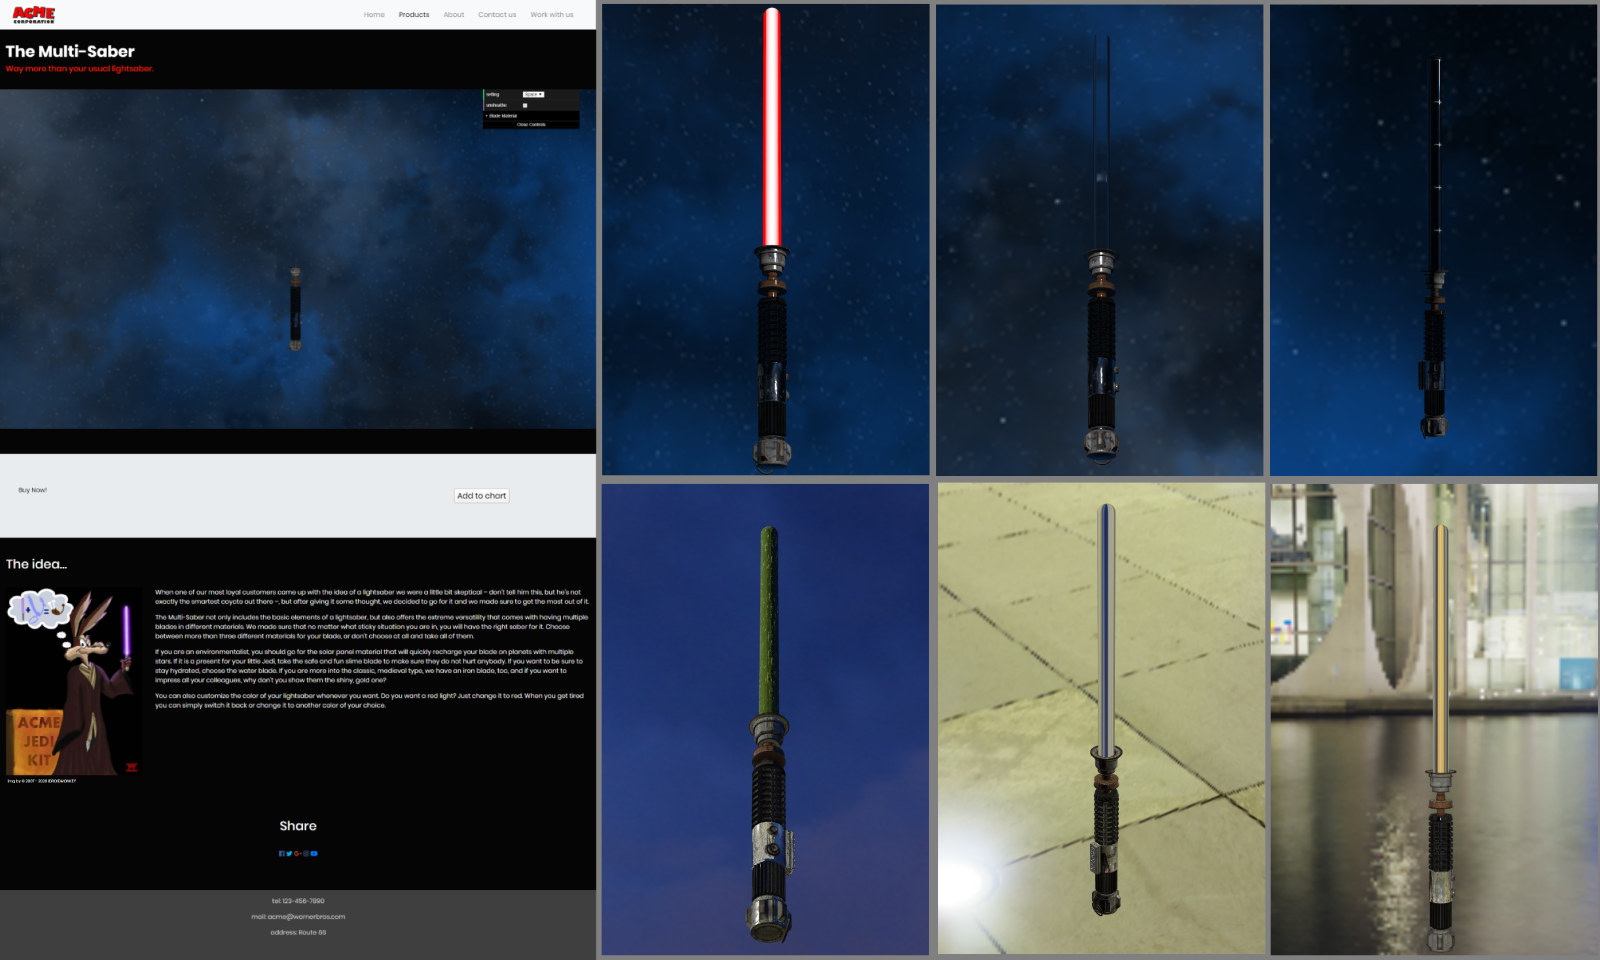
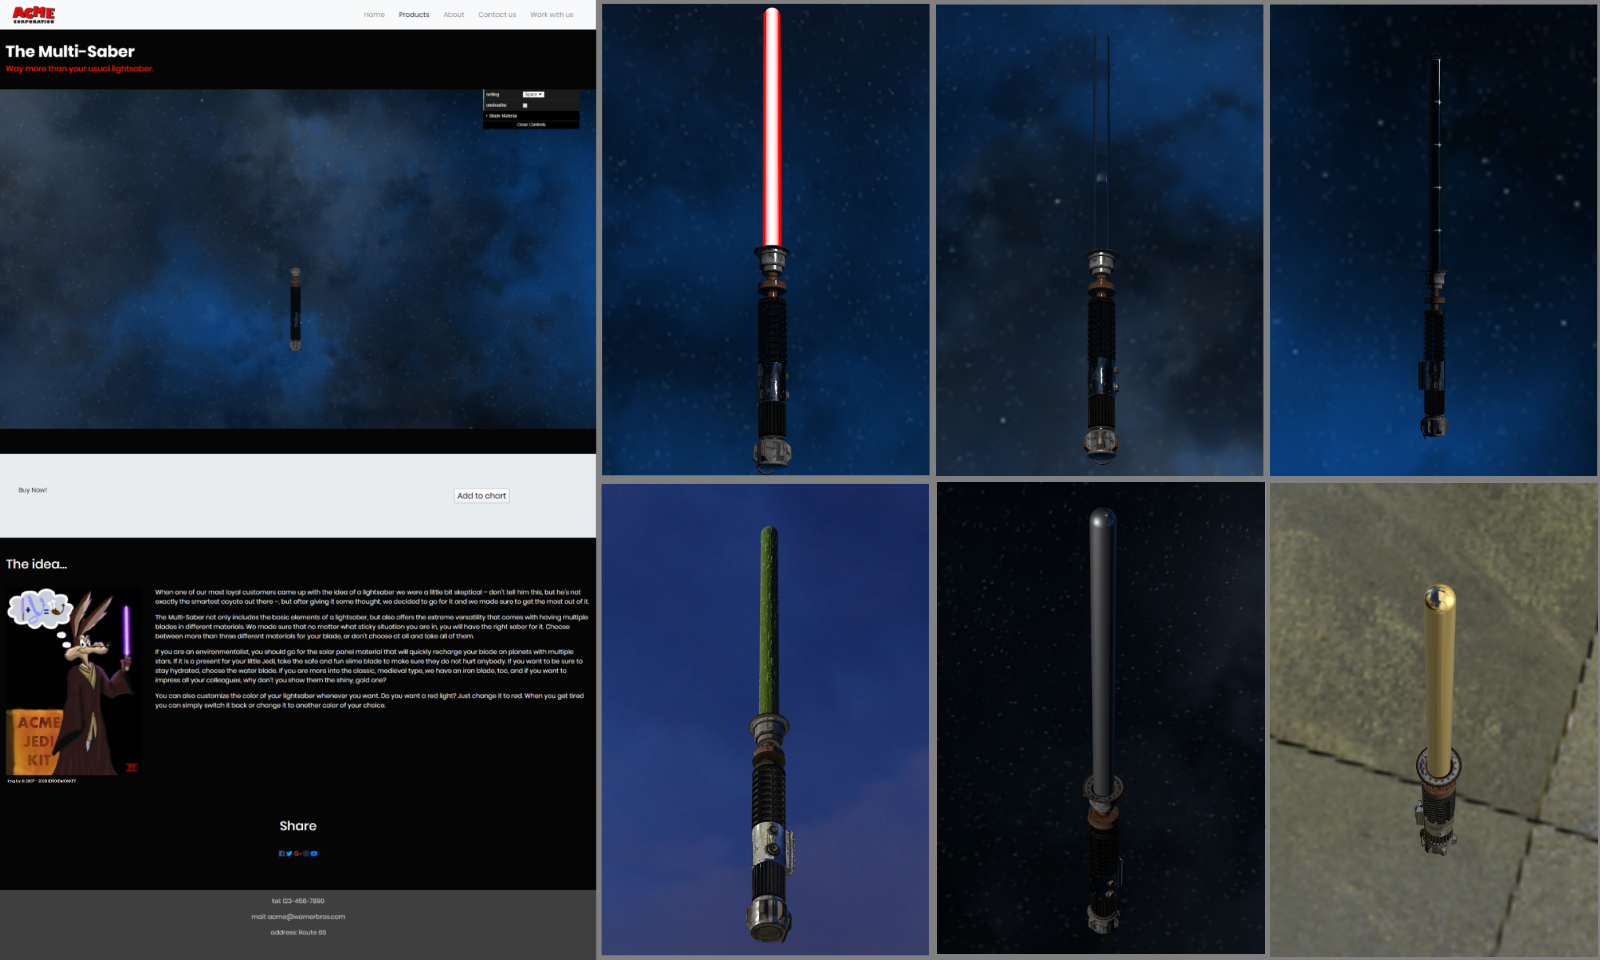
aggiunta luce in oro e ferro

Changed region(s): [[0.5625, 0.5, 1.0, 1.0]]

diff --git a/productConfiguration.html b/productConfiguration.html
@@ -243,6 +243,7 @@
 						varying vec3 wPosition;
 						varying vec3 vTangent;
 						varying vec3 vBitangent;
+						vec3 pointLightPosition = vec3(0,5,15);
 				
 						void main() {
 							vec4 vPos = modelViewMatrix * vec4( position, 1.0 );
@@ -276,36 +277,70 @@
 							vec3 inverseTransformDirection( in vec3 dir, in mat4 matrix ) {
 								return normalize( ( vec4( dir, 0.0 ) * matrix ).xyz );
 							}
+
+							float DGGX(float nDoth, float alpha) {
+								float alpha2 = alpha*alpha;
+								float d = nDoth*nDoth*(alpha2-1.0)+1.0;
+								return (  alpha2 / (PI*d*d));
+							}
+				
+							float G1(float dotProduct, float k) {
+								return (dotProduct / (dotProduct*(1.0-k) + k) );
+							}
+				
+							float GSmith(float nDotv, float nDotl, float roughness) {
+									float k = roughness*roughness;
+									return G1(nDotl,k)*G1(nDotv,k);
+							}
+
 							void main() {
-								vec3 normal = normalize( vNormal );
-								vec3 tangent = normalize( vTangent );
-								vec3 bitangent = normalize( vBitangent );
-								mat3 vTBN = mat3( tangent, bitangent, normal );
-								vec3 n = normalize( vTBN * normal );
+								vec3 n = normalize( vNormal );
+								if(material==3.0 || material==1.0){
+									vec3 tangent = normalize( vTangent );
+									vec3 bitangent = normalize( vBitangent );
+									mat3 vTBN = mat3( tangent, bitangent, n );
+									n = normalize( vTBN * n );
+								}
 								vec3 v = normalize( -vPosition);
-								vec3 worldN = inverseTransformDirection( n, viewMatrix );
-								vec3 worldV = cameraPosition - wPosition ;
 								float nDotv = max(dot( n, v ),0.000001);
 								vec3 fresnel = FSchlick(nDotv, cspec);
 								vec3 outRadiance;
-								
-								if(material == 1.0){ //acqua
-									vec3 refractV = refract(-worldV,worldN,0.750);
-									vec3 reflectV = reflect(-worldV,worldN);
-									vec3 refractEnvLight = textureCube( envMap, vec3(-refractV.x, refractV.yz)).rgb;
-									vec3 reflectEnvLight = textureCube( envMap, vec3(-reflectV.x, reflectV.yz)).rgb;
-									refractEnvLight = pow( refractEnvLight, vec3(2.2));
-									reflectEnvLight = pow( reflectEnvLight, vec3(2.2));
-									outRadiance = refractEnvLight*(vec3(1.0)-fresnel) + fresnel*reflectEnvLight;
-								}
-								if(material == 2.0){ //ferro o oro
-									vec3 r = reflect(-worldV,worldN);
-									vec3 envLight = textureCube( envMap, vec3(-r.x, r.yz)).rgb;
-									envLight = pow( envLight, vec3(2.2));
-									outRadiance = fresnel*envLight;
+								if(material == 1.0 || material == 2.0){
+									//componente ambientale
+									vec3 worldN = inverseTransformDirection( n, viewMatrix );
+									vec3 worldV = cameraPosition - wPosition ;
+									if(material == 1.0){ //acqua
+										vec3 refractV = refract(-worldV,worldN,0.750);
+										vec3 reflectV = reflect(-worldV,worldN);
+										vec3 refractEnvLight = textureCube( envMap, vec3(-refractV.x, refractV.yz)).rgb;
+										vec3 reflectEnvLight = textureCube( envMap, vec3(-reflectV.x, reflectV.yz)).rgb;
+										refractEnvLight = pow( refractEnvLight, vec3(2.2));
+										reflectEnvLight = pow( reflectEnvLight, vec3(2.2));
+										outRadiance = refractEnvLight*(vec3(1.0)-fresnel) + fresnel*reflectEnvLight;
+									}
+									if(material == 2.0){ //ferro o oro
+										vec3 r = reflect(-worldV,worldN);
+										vec3 envLight = textureCube( envMap, vec3(-r.x, r.yz)).rgb;
+										envLight = pow( envLight, vec3(2.2));
+										outRadiance = fresnel*envLight;
+										//BRDF microfaced
+										vec3 pointLightPosition = vec3(0,5,15);
+										float roughness = 0.54;
+										vec4 lPosition = viewMatrix * vec4( pointLightPosition, 1.0 );
+										vec3 l = normalize(lPosition.xyz - vPosition.xyz);
+										vec3 h = normalize( v + l);
+										// small quantity to prevent divisions by 0
+										float nDotl = max(dot( n, l ),0.000001);
+										float lDoth = max(dot( l, h ),0.000001);
+										float nDoth = max(dot( n, h ),0.000001);
+										float vDoth = max(dot( v, h ),0.000001);
+										vec3 specularBRDF = FSchlick(lDoth, cspec)*GSmith(nDotv,nDotl,roughness)*DGGX(nDoth,roughness*roughness)/
+											(4.0*nDotl*nDotv);
+										outRadiance = outRadiance + PI * 0.5 * nDotl * specularBRDF; //0.5 rapprensenta l'intesità
+									}
 								}
 								if(material == 3.0){ //luce
-									outRadiance = vec3(max(nDotv * 1.0,lightColor.r),max(nDotv * 1.0,lightColor.g),max(nDotv * 1.0,lightColor.b)) ;
+									outRadiance = vec3(max(nDotv * 1.0,lightColor.r),max(nDotv * 1.0,lightColor.g),max(nDotv * 1.0,lightColor.b));
 								}
 								gl_FragColor = vec4(pow( outRadiance, vec3(1.0/2.2)), 0.0);
 								

diff --git a/journal.md b/journal.md
@@ -26,7 +26,7 @@ Ho fatto lo shader per la versione della lama fatta d'acqua usando la funzione d
 
 Ho fatto lo shader per la classica lama "fatta di luce". Per poter creare l'effetto del laser ho prima cercato sul web possibili effetti che riproducessero l'effetto di illuminazione. Ho trovato una possibile soluzione che utilizza postprocessing chiamata "UnrealBloom". Sebbene la passata riesca ad amplificare le fonti di luce, dopo averla applicata l'intera scena perde di dettaglio e ci sono problemi con le fonti di luce sullo sfondo. 
 ![risultato utilizzando UnrealBloom](images/UnrealBloom.png) 
-Dopo aver riflettuto su come poter dare l'effetto del laser ho pensato che il colore della spada deve sempre essere "lucente" al centro quindi con una colorazione bianca per mostrare l'emissione di luce e del colore del laser ai bordi. Ho quindi pensato che una caratteristica simile nel cilindro è rispecchiata dal prodotto scalare tra la normale del vertice e il vettore che va dalla camera al punto, in quanto sarà molto alto nei punti che hanno la normale rivolta verso la camera e sempre più piccolo nei punti che hanno una normal sempre più ortogonale a vettore della camera. Ho approfittato di questa caratteristica e una volta scelto il colore del laser basta creare un colore composto dal valore così calcolato quando questo supera il valore corrispondente e il valore corrispondente a quello del colore scelto quando questo supera il prodotto. L'effetto non è esattamente perfetto e non corrisponde esattamente all'emissione di luce, ma lo trovo in ogni caso efficace.
+Dopo aver riflettuto su come poter dare l'effetto del laser ho pensato che il colore della spada deve sempre essere "lucente" al centro quindi con una colorazione bianca per mostrare l'emissione di luce e del colore del laser ai bordi. Ho quindi pensato che una caratteristica simile nel cilindro è rispecchiata dal prodotto scalare tra la normale del vertice in tangent space e il vettore che va dalla camera al punto, in quanto sarà molto alto nei punti che hanno la normale rivolta verso la camera e sempre più piccolo nei punti che hanno una normal sempre più ortogonale a vettore della camera. Ho approfittato di questa caratteristica e una volta scelto il colore del laser basta creare un colore composto dal valore così calcolato quando questo supera il valore corrispondente e il valore corrispondente a quello del colore scelto quando questo supera il prodotto. L'effetto non è esattamente perfetto e non corrisponde esattamente all'emissione di luce, ma lo trovo in ogni caso efficace. Siccome questo prodotto sottolinea i bordi dell'oggetto quando si tratta di riflessioni ho deciso di usarlo anche per la lama d'acqua.
 
 ### Materiale Ferro
 
@@ -68,3 +68,7 @@ Già precedentemente avevo usato calcoli aggiuntivi per sistemare i valori delle
 ho trovato un [articolo](https://marmoset.co/posts/pbr-texture-conversion/#metaltospec) che spiega come trasformarle utilizzando photoshop e
 ho provato a utilizzare la tecnica all'interno degli shader in maniera intuitiva, non sono sicuro che siano matematicamente perfetti, ma 
 almeno a livello visivo il risultato è a mio parere corretto.
+
+## Aggiunto la PointLight a Ferro e Oro
+
+Ho infine aggiunto la point light anche a il ferro e l'oro così da distinguerli meglio nello spazio
